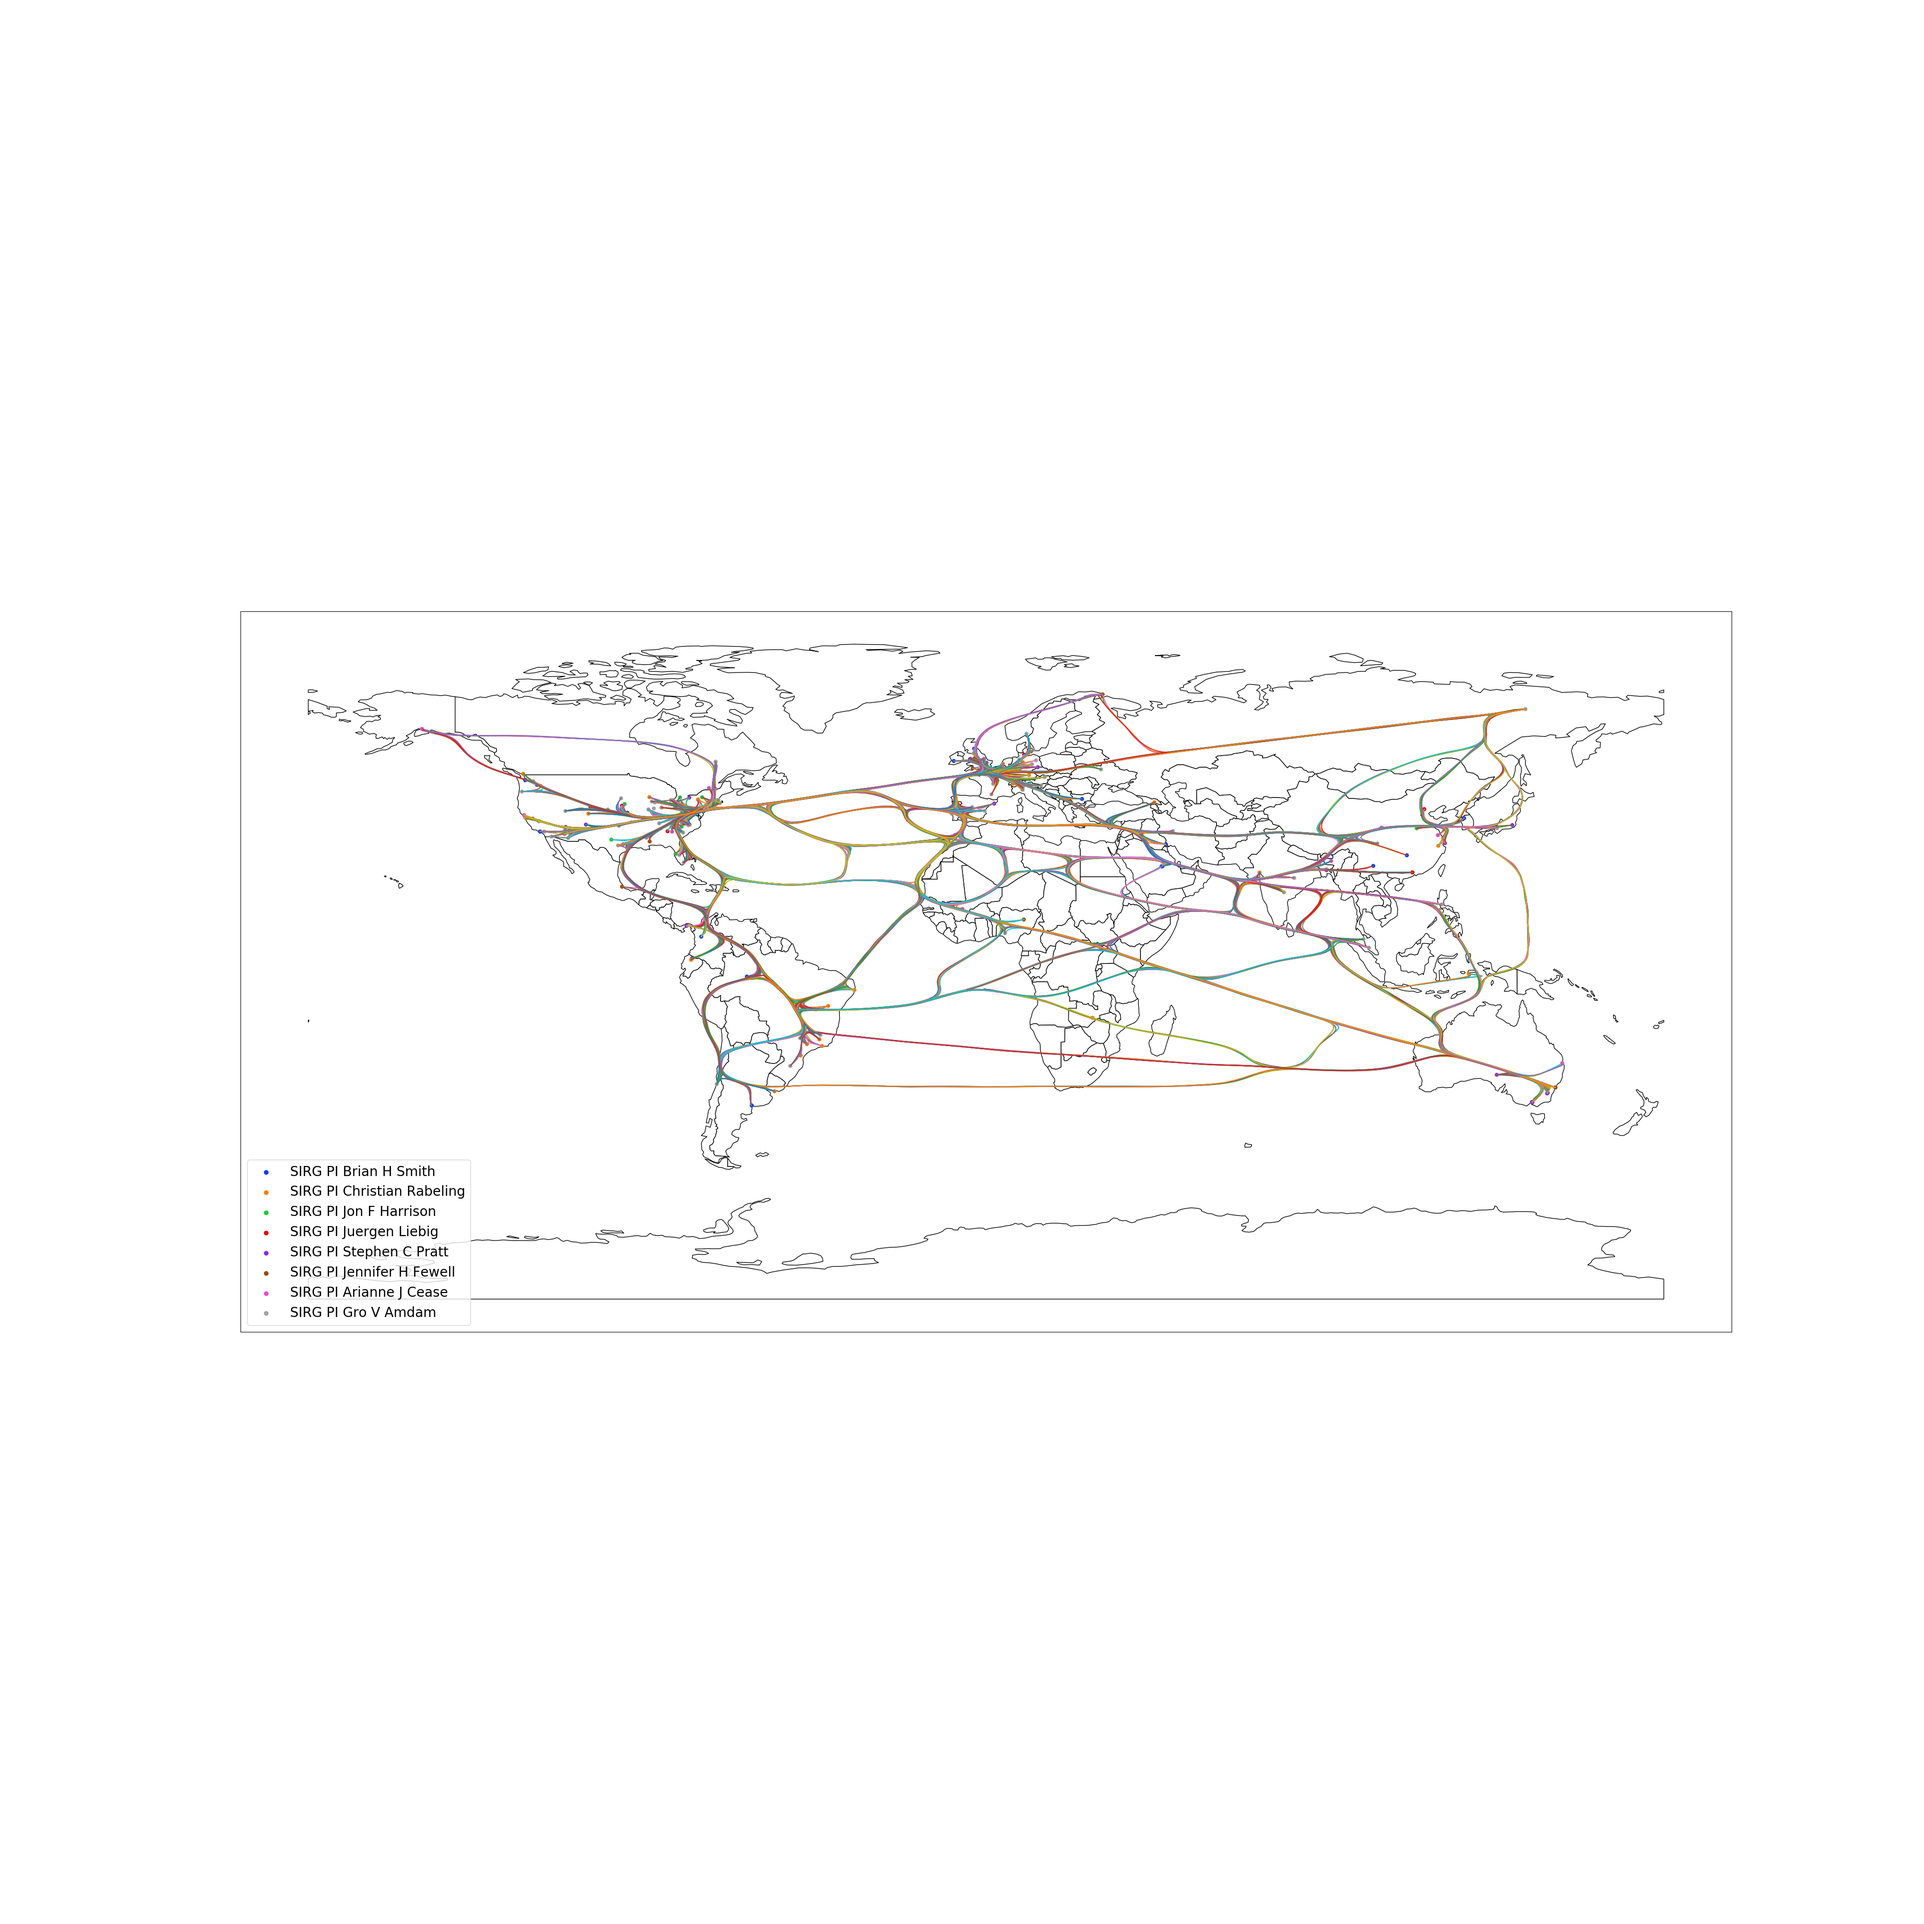
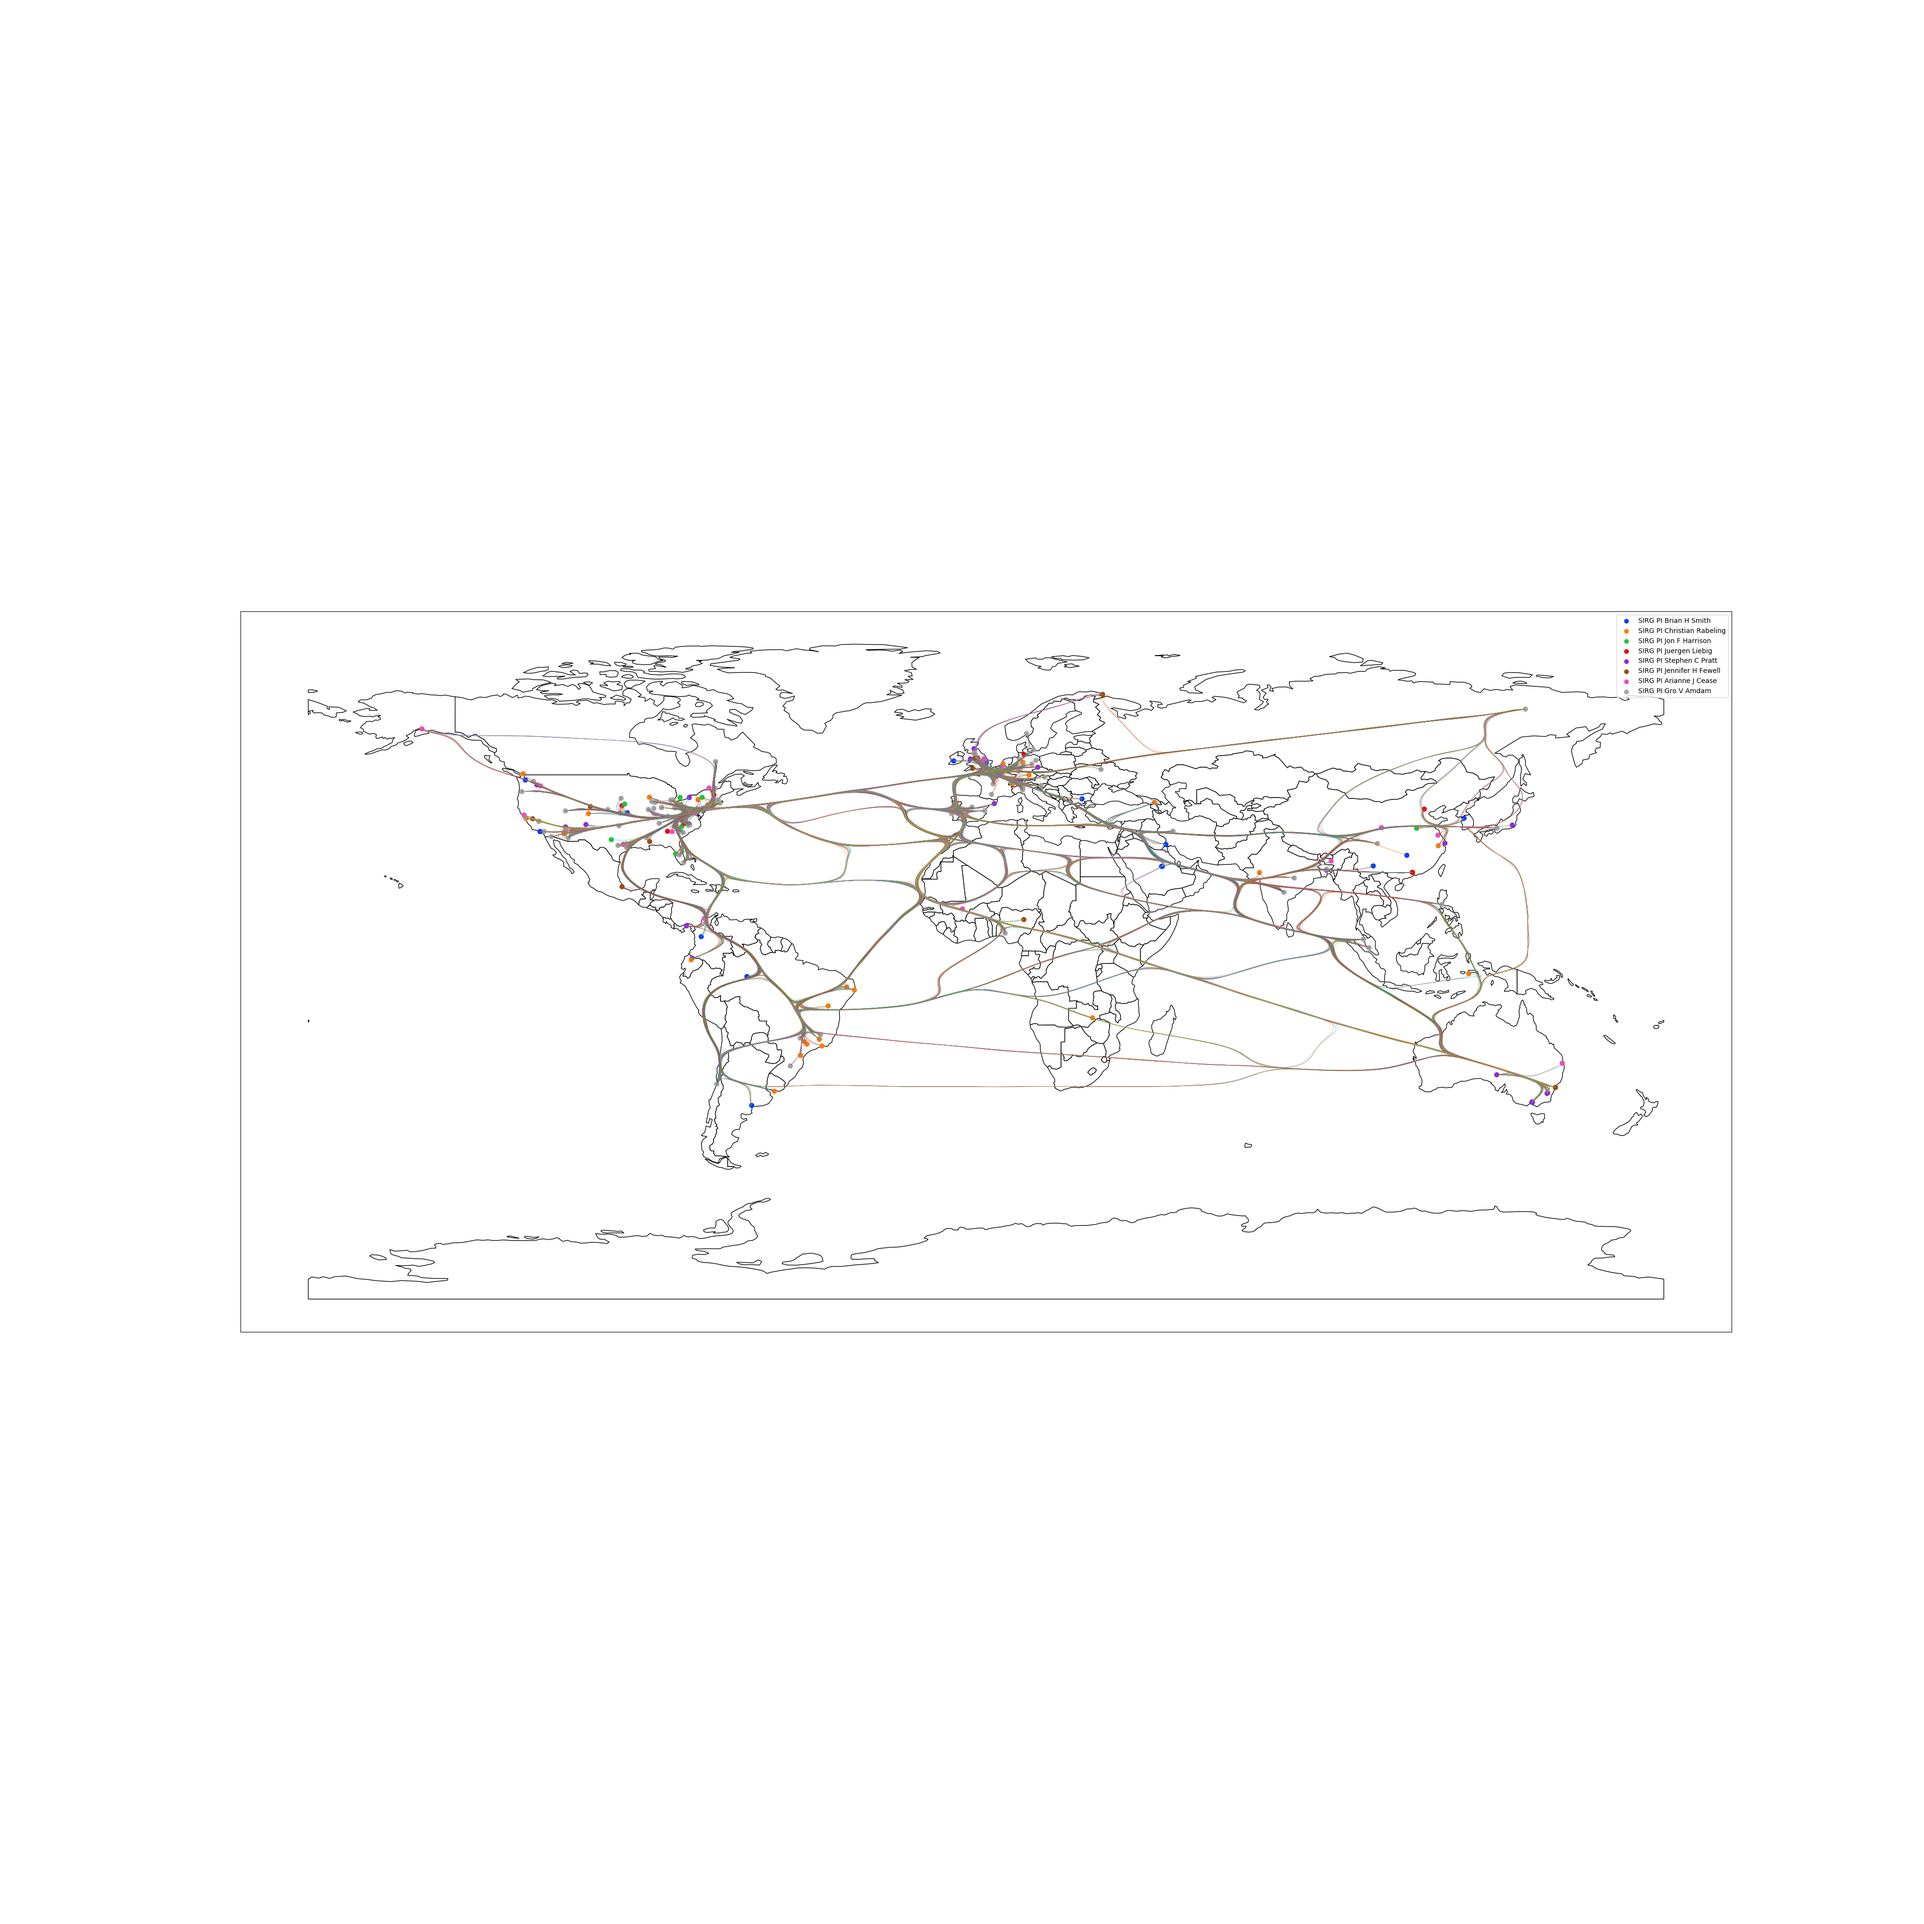
update

diff --git a/netgeovis2.py b/netgeovis2.py
@@ -351,12 +351,12 @@ def data_bundle(graph, world, colors, sirg_author_list, tab10):
             seg = hbnp[start:stop, :]
             segments.append(seg)
             start = stop
-    fig, ax = plt.subplots(figsize=(30, 30))
+    fig, ax = plt.subplots(figsize=(40, 40))
 
     ax = world.plot(color="white", edgecolor="black", figsize=(40, 40))
     # for seg in segments:  # [::100]:
     for ind, seg in enumerate(tqdm(segments, title="Bundling Edges")):
-        ax.plot(seg[:, 0], seg[:, 1])
+        ax.plot(seg[:, 0], seg[:, 1], linewidth=0.125)
     assert segments is not None
 
     with open("segments.p", "wb") as f:
@@ -364,7 +364,7 @@ def data_bundle(graph, world, colors, sirg_author_list, tab10):
     ax3 = nx.draw_networkx_nodes(
         graph,
         orig_pos,
-        node_size=35,
+        node_size=55,
         node_color=colors,
         node_shape="o",
         alpha=1.0,
